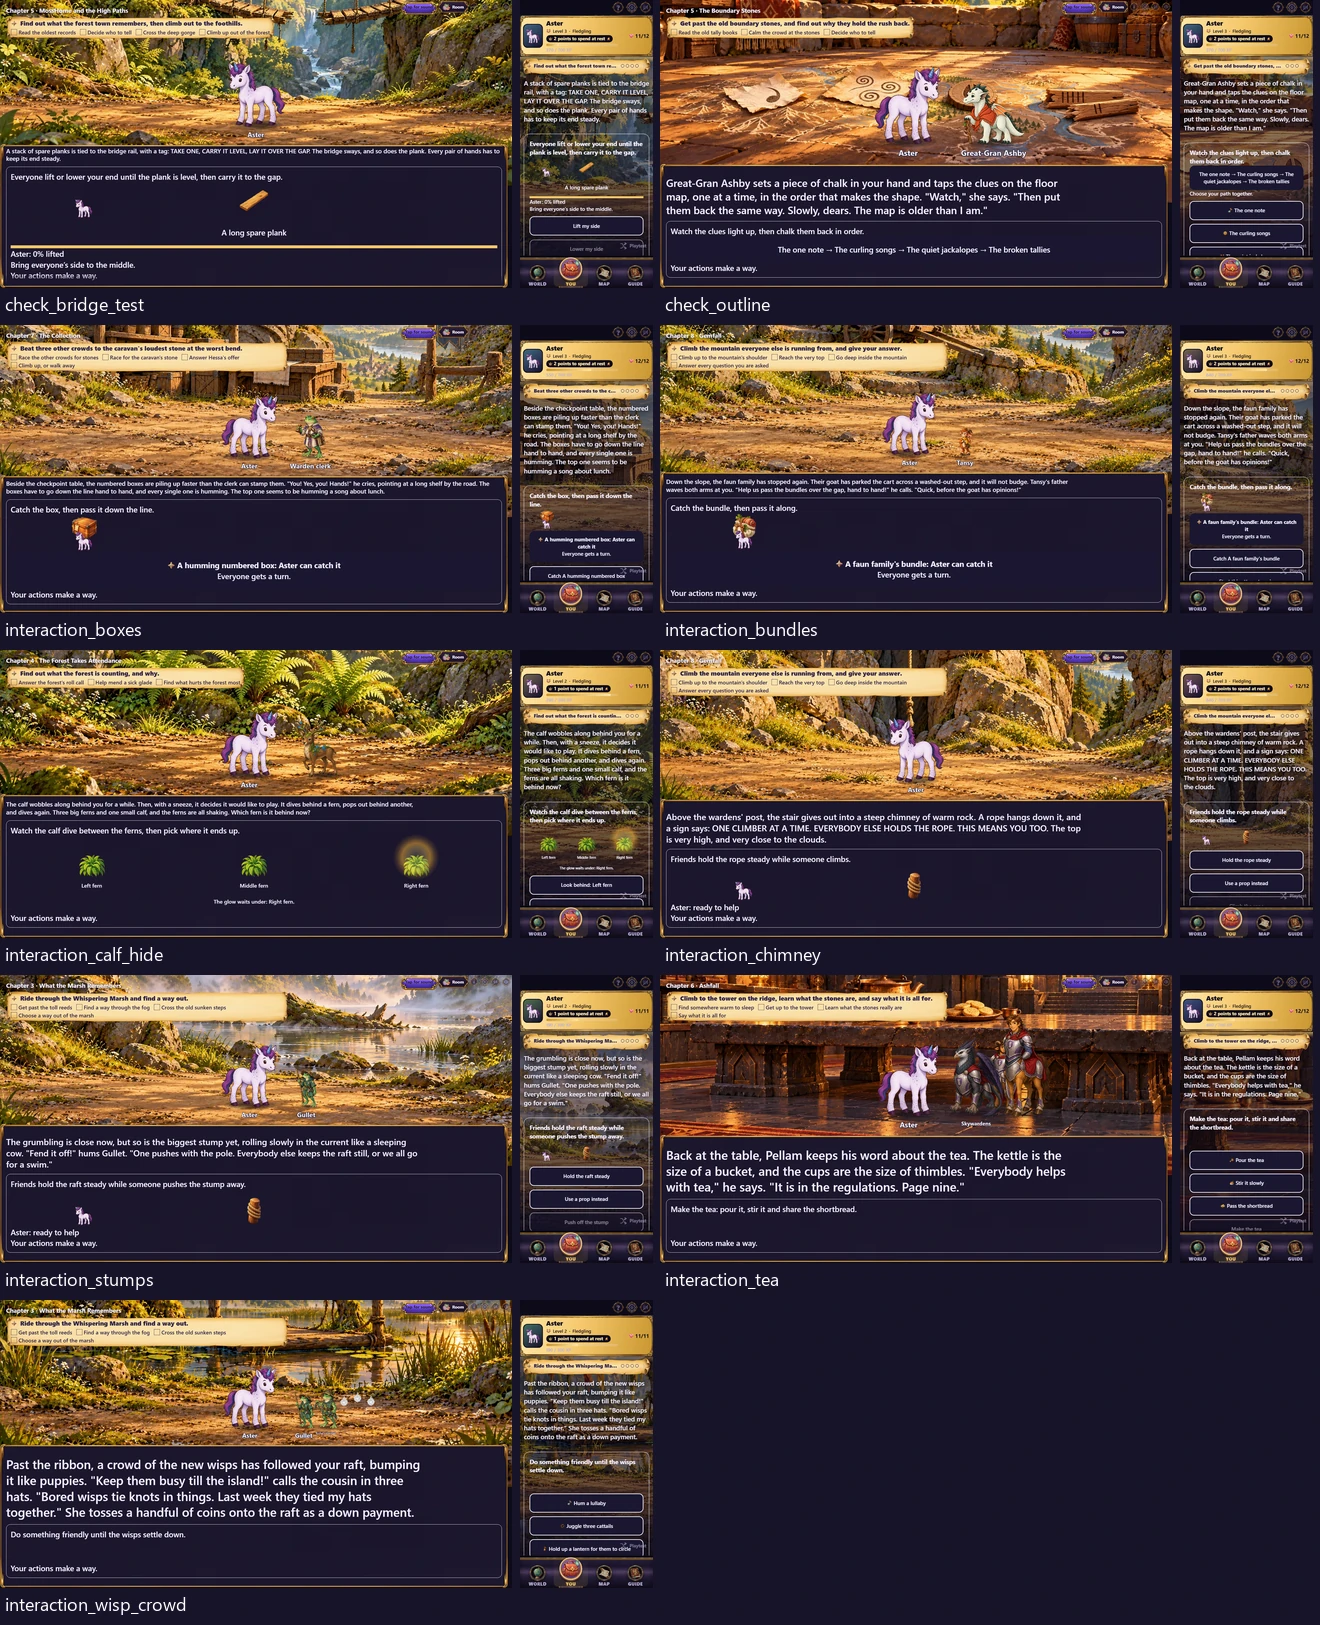
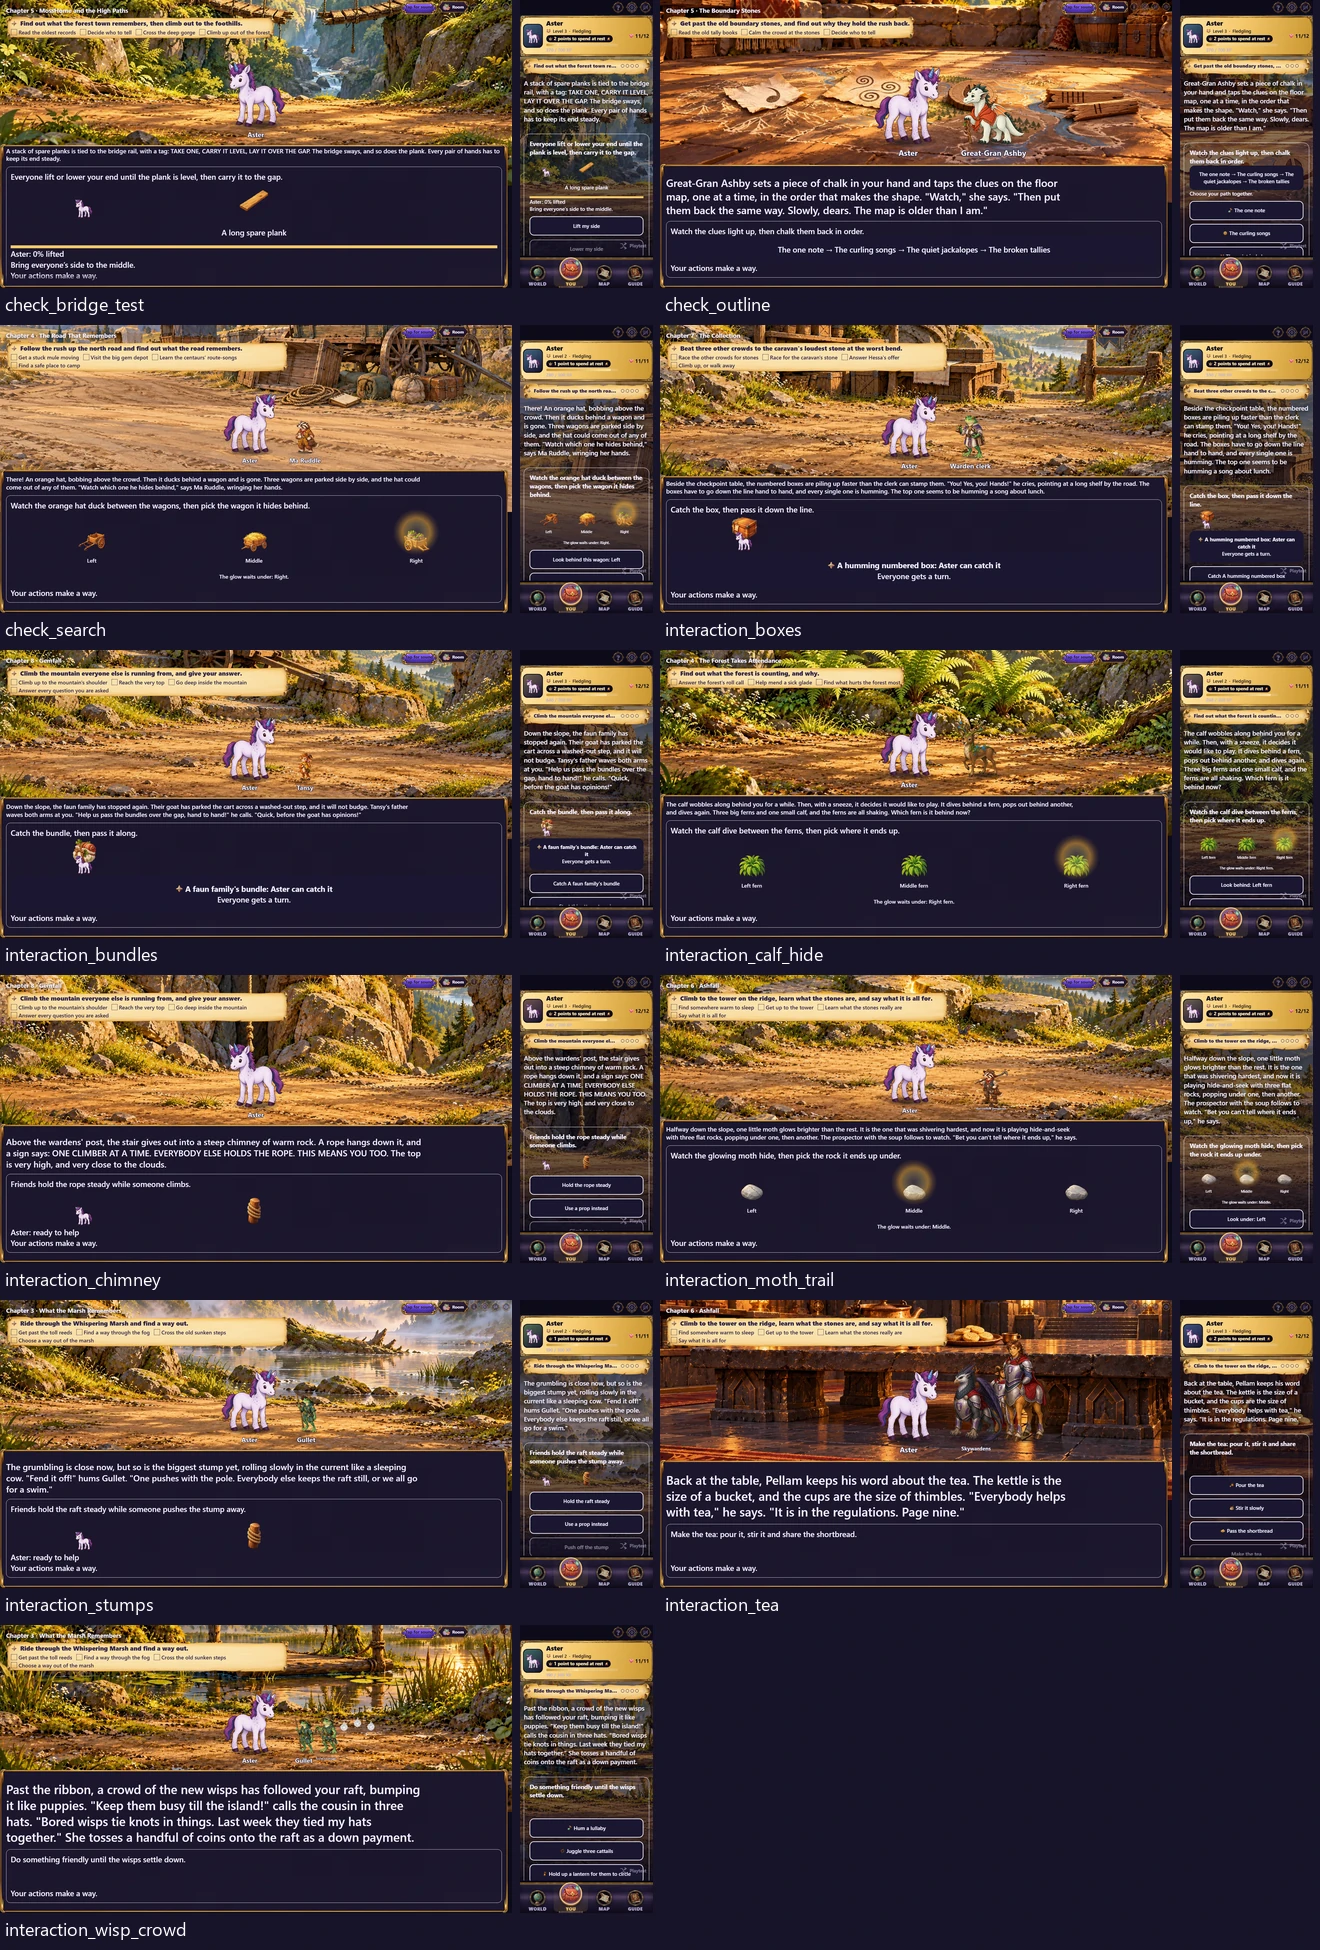
Fix tracking slot labels and portable art review fonts

diff --git a/packages/client/src/screens/InteractionExtras.tsx b/packages/client/src/screens/InteractionExtras.tsx
@@ -6,6 +6,13 @@ import type { InteractionAction, InteractionPrompt, PartyMember } from "@kad/sha
 import { reducedMotion } from "../a11y/prefs";
 import { Icon } from "./icons";
 
+/** Answers are slot indices; distinct moving paintings must not name those slots. */
+function trackingLabels(covers: string[], icons?: string[]): string[] {
+  if (icons?.length !== covers.length || new Set(icons).size < 2) return covers;
+  const positions = covers.length === 3 ? ["Left", "Middle", "Right"] : covers.length === 2 ? ["Left", "Right"] : [];
+  return covers.map((_, index) => positions[index] ?? `Position ${index + 1}`);
+}
+
 /** The same observation surface on TV and phone; it never sends an intent. */
 function InteractionShowBase({ prompt, party, now, painted, bells }: { prompt: InteractionPrompt; party: PartyMember[]; now: number; painted?: boolean; bells?: boolean }) {
   const chapter = useChapter();
@@ -18,6 +25,7 @@ function InteractionShowBase({ prompt, party, now, painted, bells }: { prompt: I
   const still = reducedMotion();
   switch (spec.kind) {
     case "tracking": {
+      const labels = trackingLabels(spec.covers, appearance?.coverIcons);
       const step = spec.stepMs * (prompt.relaxed ? 2 : 1);
       const progress = still || prompt.relaxed ? spec.swaps.length : Math.max(0, (elapsed - step) / step);
       const done = Math.min(spec.swaps.length, Math.floor(progress));
@@ -35,8 +43,8 @@ function InteractionShowBase({ prompt, party, now, painted, bells }: { prompt: I
             {painted ? <PaintedCover bells={bells ?? false} icon={appearance?.coverIcons?.[index]} target={appearance?.props?.[0]} diving={elapsed>step*.5&&elapsed<step} reveal={(!prompt.relaxed && !still && elapsed < step && index === spec.start) || ((still || prompt.relaxed) && at === trackedCover(spec))} /> : <span aria-hidden="true">{(!prompt.relaxed && !still && elapsed < step && index === spec.start) || ((still || prompt.relaxed) && at === trackedCover(spec)) ? "✦" : "▰"}</span>}
           </span>;
         })}
-        {spec.covers.map((label, index) => <span className="story-interaction__cover story-interaction__cover-label" key={`label:${index}`} style={{ left: `${(index + 0.5) / spec.covers.length * 100}%` }}><small>{label}</small></span>)}
-        {(still || prompt.relaxed) && <span className="story-interaction__tracking-help">The glow waits under: {spec.covers[trackedCover(spec)]}.</span>}
+        {labels.map((label, index) => <span className="story-interaction__cover story-interaction__cover-label" key={`label:${index}`} style={{ left: `${(index + 0.5) / spec.covers.length * 100}%` }}><small>{label}</small></span>)}
+        {(still || prompt.relaxed) && <span className="story-interaction__tracking-help">The glow waits under: {labels[trackedCover(spec)]}.</span>}
       </div>;
     }
     case "memory": {
@@ -81,12 +89,15 @@ export function ExtraControls({ prompt, playerId, connected, mine, now, busy, se
   prompt: InteractionPrompt; playerId: string; connected: string[]; mine: boolean;
   now: number; busy: boolean; send: (action: InteractionAction) => void;
 }) {
+  const chapter = useChapter();
+  const state = useRunState();
+  const appearance = interactionAppearance(chapter?.id === state?.chapterId ? chapter : null, state?.sceneId);
   const spec = prompt.spec;
   const button = (label: string, action: InteractionAction, disabled = false) => <button className="story-interaction__button kad-focusable" disabled={busy || disabled} onClick={() => send(action)}>{label}</button>;
   switch (spec.kind) {
     case "tracking": {
       const ready = prompt.relaxed || now - Date.parse(prompt.startedAt ?? "") >= playbackMs(spec, prompt.relaxed) + 250;
-      return mine ? <>{!ready ? <p>Keep your eyes on the covers…</p> : spec.covers.map((label, index) => <span key={index}>{button(`${spec.actionLabel}: ${label}`, { action: "answer", answer: [String(index)] })}</span>)}</> : null;
+      return mine ? <>{!ready ? <p>Keep your eyes on the covers…</p> : trackingLabels(spec.covers, appearance?.coverIcons).map((label, index) => <span key={index}>{button(`${spec.actionLabel}: ${label}`, { action: "answer", answer: [String(index)] })}</span>)}</> : null;
     }
     case "timing":
       return mine ? reducedMotion() ? <p>Take a helping hand for an untimed crossing.</p> : button(spec.actionLabel, { action: "stop", position: precisionPosition(now - Date.parse(prompt.startedAt ?? ""), spec.periodMs) }) : null;

diff --git a/packages/client/src/screens/story-interaction.test.tsx b/packages/client/src/screens/story-interaction.test.tsx
@@ -7,6 +7,8 @@ import { makeCharacter, makeItems, makeRules } from "../../../shared/src/test-fi
 import { useGameStore, useMyTurnKey } from "../store";
 import { StoryInteractionControls, StoryInteractionWorld } from "./StoryInteraction";
 import { PaintedCover } from "./InteractionArt";
+import wagons from "../../../../content/chapters/gemfall-04c.json";
+import rocks from "../../../../content/chapters/gemfall-06.json";
 
 const initial = useGameStore.getState();
 beforeEach(() => { vi.spyOn(window, "requestAnimationFrame").mockReturnValue(1); });
@@ -32,6 +34,38 @@ function authoredChapter(props: { props?: string[]; coverIcons?: string[] } = { 
 }
 
 describe("reusable story controls", () => {
+  it.each([
+    ["wagons", wagons.scenes.check_search.interaction, wagons.presentation.interactions.check_search, [[0, 1, 2], [1, 0, 2], [2, 0, 1], [2, 1, 0]], "Right", "2"],
+    ["rocks", rocks.scenes.interaction_moth_trail.interaction, rocks.presentation.interactions.interaction_moth_trail, [[0, 1, 2], [1, 0, 2], [1, 2, 0], [2, 1, 0]], "Middle", "1"],
+  ] as const)("keeps distinct tracking art and positional answers consistent: %s", async (_name, rawSpec, appearance, positions, answerLabel, answerIndex) => {
+    vi.spyOn(Date, "now").mockReturnValue(2_000_000);
+    const spec = rawSpec as Extract<InteractionSpec, { kind: "tracking" }>;
+    for (const mode of ["normal", "relaxed", "reduced"] as const) {
+      for (const [step, expected] of positions.entries()) {
+        const elapsed = step === 0 ? 0 : (step + 1) * spec.stepMs;
+        seed(spec, { relaxed: mode === "relaxed", startedAt: new Date(Date.now() - elapsed).toISOString() });
+        authoredChapter(appearance);
+        if (mode === "reduced") document.documentElement.setAttribute("data-motion", "reduced");
+        const { container, unmount } = render(<StoryInteractionWorld />);
+        const covers = container.querySelectorAll<HTMLElement>(".story-interaction__cover:not(.story-interaction__cover-label)");
+        for (const [index, cover] of [...covers].entries()) {
+          expect(cover.querySelector("img")?.getAttribute("src")).toContain(appearance.coverIcons[index]);
+          const slot = mode === "normal" ? expected[index]! : positions[3][index]!;
+          expect(parseFloat(cover.style.left)).toBeCloseTo((slot + 0.5) / 3 * 100);
+        }
+        expect([...container.querySelectorAll(".story-interaction__cover-label")].map(el => el.textContent)).toEqual(["Left", "Middle", "Right"]);
+        if (mode !== "normal") expect(screen.getByText(`The glow waits under: ${answerLabel}.`)).toBeTruthy();
+        unmount();
+      }
+      const send = seed(spec, { relaxed: mode === "relaxed", startedAt: new Date(Date.now() - spec.stepMs * 8).toISOString() });
+      authoredChapter(appearance);
+      const { unmount } = render(<StoryInteractionControls />);
+      await act(async () => { fireEvent.click(screen.getByRole("button", { name: `${spec.actionLabel}: ${answerLabel}` })); });
+      expect(send).toHaveBeenCalledWith(expect.objectContaining({ action: "answer", answer: [answerIndex] }));
+      unmount();
+      document.documentElement.removeAttribute("data-motion");
+    }
+  });
   it("renders painted play options and retains the action when a painting fails", async () => {
     const send = seed({ kind: "play", cue: "Tea", actionLabel: "Share", participation: "any", options: [{ id: "pour", label: "Pour the tea", icon: "play_pour_tea", reaction: "Warm!" }] });
     render(<StoryInteractionControls />);

diff --git a/e2e/gemfall-art-shot.spec.ts b/e2e/gemfall-art-shot.spec.ts
@@ -149,6 +149,10 @@ const priorChapterEndings = [
   ["rest_end", "ending_foothills_rim", "end_through_the_stones"],
 ];
 const interactionReview = remainingLocations.filter(a => ['stump-river-fog', 'wisp-raft-crowd', 'fern-calf-hide', 'rope-bridge-spare-planks', 'tally-house-floor-map', 'pellam-tea-table', 'checkpoint-box-shelf', 'washed-out-step-cart', 'warm-rock-chimney'].includes(a.slug)).map(a => ({ ...a, scenes: [a.scenes[0]!], introScenes: a.scenes }));
+interactionReview.push(
+  { chapter: "gemfall-04c", slug: "downbound-wagon-auction", scenes: ["check_search"], introScenes: ["check_search"], brief: "Distinct wagon tracking covers", delivered: true },
+  { chapter: "gemfall-06", slug: "moth-slope-rocks", scenes: ["interaction_moth_trail"], introScenes: ["interaction_moth_trail"], brief: "Distinct rock tracking covers", delivered: false },
+);
 for (const batch of [{ number: "interactions", art: { assets: interactionReview } }, { number: "03", art: fightArt }, { number: "04", art: fight04Art }, { number: "05", art: fight05Art }, { number: "06", art: fight06Art }, { number: "07", art: fight07Art }, { number: "08", art: fight08Art }, { number: "remaining", art: { assets: remainingLocations.filter((asset) => !asset.delivered).map((asset) => ({ ...asset, introScenes: asset.scenes })) } }]) {
 test(`photograph chapter ${batch.number} fight introductions and outcomes on TV and phone`, async ({ browser }) => {
   test.setTimeout(batch.number === "remaining" ? 1_800_000 : batch.number === "interactions" ? 600_000 : 240_000);

diff --git a/art/source/package_gemfall_497_interactions.py b/art/source/package_gemfall_497_interactions.py
@@ -1,6 +1,7 @@
 """Package active TV/phone snapshots; retain originals outside test output cleanup."""
 from pathlib import Path
-from PIL import Image, ImageDraw, ImageFont
+from PIL import Image, ImageDraw
+from review_font import review_font
 
 ROOT = Path(__file__).resolve().parents[2]
 REVIEW = ROOT / 'docs/review/gemfall-497-interactions'
@@ -9,10 +10,10 @@ RAW.mkdir(parents=True, exist_ok=True)
 for path in REVIEW.glob('*.png'):
     path.replace(RAW / path.name)
 scenes = sorted(p.name.removesuffix('-tv.png') for p in RAW.glob('*-tv.png'))
-assert len(scenes) == 9, scenes
+assert len(scenes) == 11, scenes
 sheet = Image.new('RGB', (1320, 325*((len(scenes)+1)//2)), '#17142a')
 draw = ImageDraw.Draw(sheet)
-font = ImageFont.truetype('C:/Windows/Fonts/segoeui.ttf',18)
+font = review_font(18)
 for i, scene in enumerate(scenes):
     x, y = i%2*660, i//2*325
     for device, width, dx in [('tv',512,0),('phone',133,520)]:

diff --git a/art/source/package_gemfall_497_review.py b/art/source/package_gemfall_497_review.py
@@ -1,13 +1,14 @@
 """Package real TV/phone captures into chapter review sheets (Pillow only)."""
 import json
 from pathlib import Path
-from PIL import Image, ImageDraw, ImageFont
+from PIL import Image, ImageDraw
+from review_font import review_font
 
 ROOT = Path(__file__).resolve().parents[2]
 REVIEW = ROOT / 'docs/review/gemfall-497-locations'
 RAW = ROOT / 'test-results/gemfall-497-locations'
 RAW.mkdir(parents=True, exist_ok=True)
-font = ImageFont.truetype('C:/Windows/Fonts/segoeui.ttf', 18)
+font = review_font(18)
 rows = json.loads((ROOT / 'art/source/gemfall-497-locations.json').read_text(encoding='utf-8'))
 chapters = dict.fromkeys(a['chapter'] for a in rows if not a['delivered'])
 for chapter in chapters:

diff --git a/art/source/contact_gemfall_497.py b/art/source/contact_gemfall_497.py
@@ -1,11 +1,12 @@
 """Review transparent exports at display sizes on light and dark grounds."""
 import json
 from pathlib import Path
-from PIL import Image, ImageDraw, ImageFont
+from PIL import Image, ImageDraw
+from review_font import review_font
 
 ROOT = Path(__file__).resolve().parents[2]
 OUT = ROOT / 'docs/review/gemfall-497-locations'
-font = ImageFont.truetype('C:/Windows/Fonts/segoeui.ttf', 14)
+font = review_font(14)
 for kind, catalog, directory, size in [
     ('props', 'gemfall-497-props.json', 'assets/story-props', 100),
     ('options', 'gemfall-497-options.json', 'packages/client/src/assets/painted', 40),

diff --git a/art/source/review_font.py b/art/source/review_font.py
@@ -1,0 +1,15 @@
+"""Portable review-sheet typography; Pillow's bundled default is the last resort."""
+from PIL import ImageFont
+
+
+def review_font(size):
+    for name in ('C:/Windows/Fonts/segoeui.ttf', 'DejaVuSans.ttf',
+                 '/System/Library/Fonts/Supplemental/Arial.ttf'):
+        try:
+            return ImageFont.truetype(name, size)
+        except OSError:
+            pass
+    try:
+        return ImageFont.load_default(size=size)
+    except TypeError:  # Pillow before 10.1 ships a fixed-size default font.
+        return ImageFont.load_default()

diff --git a/docs/review/gemfall-497-locations/README.md b/docs/review/gemfall-497-locations/README.md
@@ -36,11 +36,22 @@ explicitly excluded existing backdrops and epilogues keep their prior art.
 WebP with transparent margins. Story props use a 512×512 canvas with at least
 24px margin; options use 256×256 with 16px margin.
 
-The [nine active TV/phone examples](../gemfall-497-interactions/active-interactions.webp)
+The [eleven active TV/phone examples](../gemfall-497-interactions/active-interactions.webp)
 show cooperation, balance, tracking, sequence, relay and play. Play buttons now
 draw their existing authored `icon` field through the shared `Icon` component;
 the control previously displayed only their labels. A test covers the painted
 button, its unchanged action payload and continued operation after image failure.
+
+Review follow-up: distinct wagon and rock covers now use Left/Middle/Right slot
+labels consistently under the paintings, in the relaxed hint, and on answer
+buttons. The paintings still move; the server still receives the same slot
+indices. Tests use the shipped wagon/rock scenes through every swap and verify
+their correct final choices in normal, relaxed and reduced-motion modes. The
+two additional TV/phone examples show these positional labels.
+
+All three contact-sheet generators share `art/source/review_font.py`: Segoe UI,
+DejaVu Sans, macOS Arial, then Pillow's bundled default (including older Pillow).
+The fallback was checked with platform fonts made unavailable.
 
 The [prop ledger](../../../art/source/gemfall-497-props.json) gives every shared
 use site; the pilot's straw hat is additionally retained. The
@@ -85,12 +96,12 @@ removing only `art`, `presentation` and option `icon` fields. The fourteen affec
 chapter file hashes are deliberately re-pinned; gameplay digests remain unchanged.
 
 The combined Gemfall/content/presentation/prefetch, icon-registry, interaction
-and service-worker run passes all 126 tests. Typecheck and content validation
+and service-worker run passes all 128 tests. Typecheck and content validation
 pass (117 checks; two existing warnings), and all 1,570 art checks pass.
 The 13 production offline/cache/performance browser cases pass. One initially
 lost its trace file because concurrent capture runs shared an output directory;
 it passed when rerun with a separate output directory. The complete location
-capture and nine active-interaction capture also pass; play examples were
+capture and eleven active-interaction capture also pass; play examples were
 refreshed after the icon rendering fix.
 
 The production bundle retains the existing 320KB first-paint and 1460KB total
@@ -98,6 +109,8 @@ caps. Repeated icon namespaces are built with a small prefix helper; bundled
 assets and internal shared chunks use their existing content hashes without
 repeating long source names. Dynamic entry names and named diagnostic/failure
 boundaries remain readable. No browser support floor or gameplay changes.
+After the tracking-label fix, the measured bundle is 320KB first paint and
+1458KB total, within those unchanged caps.
 
 Reproduce location captures with `npx playwright test -c
 playwright.cast-review.config.ts e2e/gemfall-art-shot.spec.ts -g "chapter remaining"`,

diff --git a/content/README.md b/content/README.md
@@ -71,6 +71,8 @@ by real interaction scene ids. A minimal example is:
 `assets/manifest.json`; tracking art must have one `coverIcons` id for each
 cover. An optional tracking `props[0]` paints the target during the initial
 peek and the relaxed-mode hint only; it stays hidden throughout shuffling.
+Distinct moving cover paintings use positional labels in the display, hints,
+and answer buttons: answers refer to slots, not to the paintings' identities.
 The validator checks scene keys, IDs, counts, and image files. These
 paintings join the chapter's existing warming list automatically, so authors
 do not need to duplicate them in `warmUrls`. The `fights` and `warmUrls`
